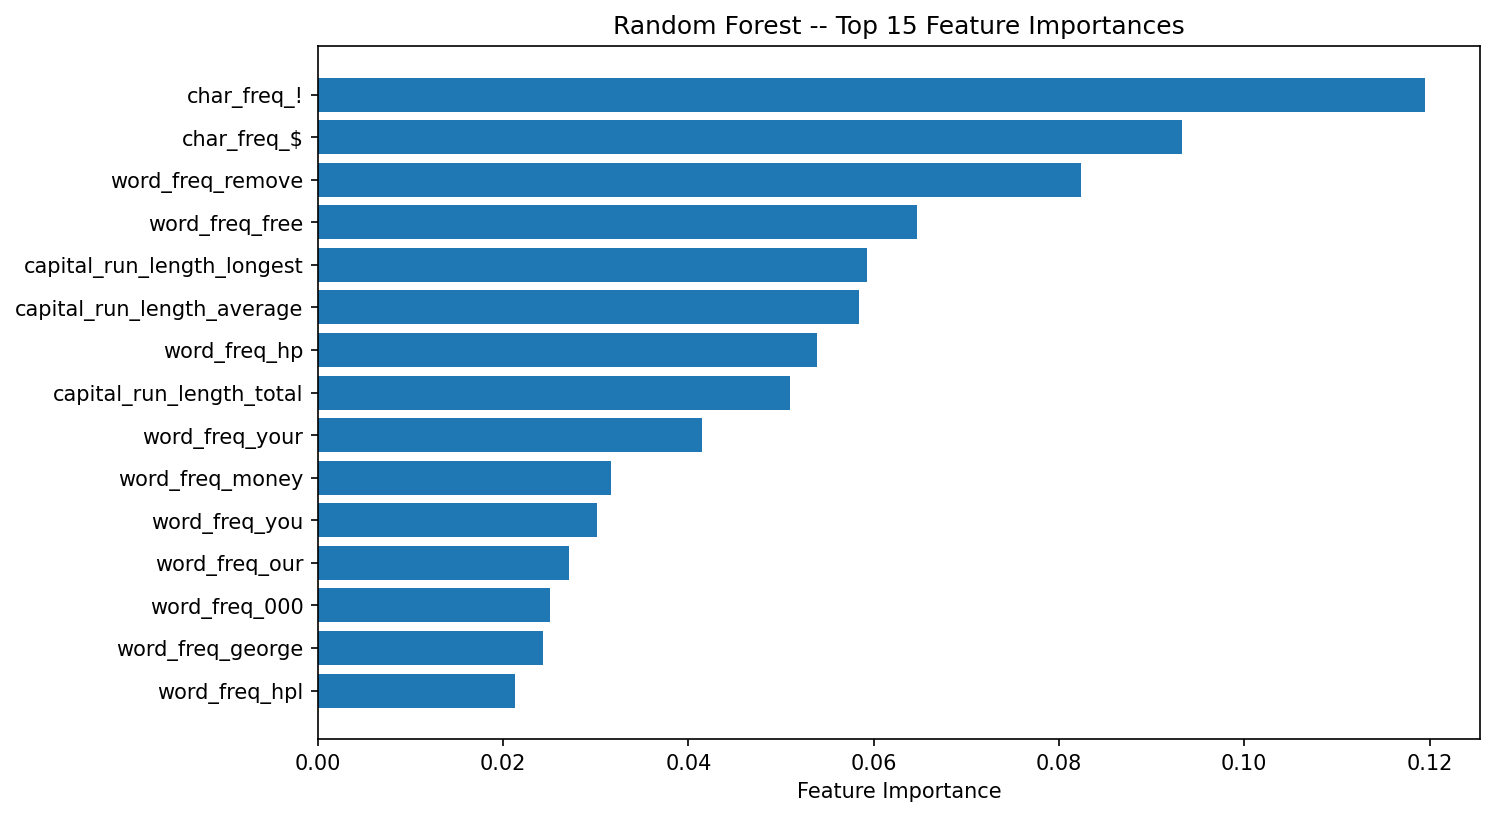
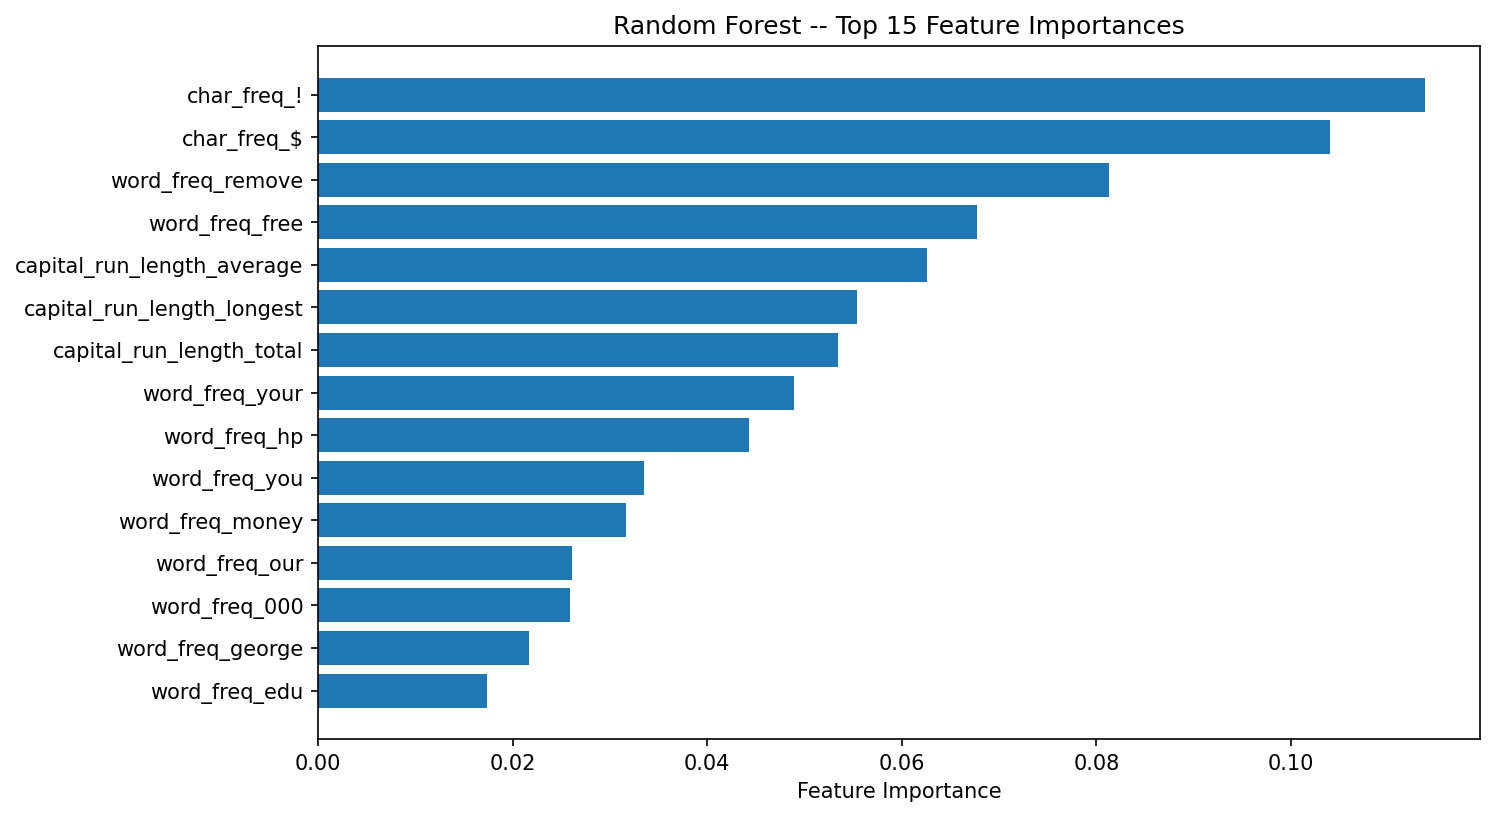
updated as per mentor and AI review

diff --git a/assignments_03/warmup_03.py b/assignments_03/warmup_03.py
@@ -8,6 +8,7 @@ from sklearn.decomposition import PCA
 from sklearn.neighbors import KNeighborsClassifier
 from sklearn.tree import DecisionTreeClassifier
 from sklearn.linear_model import LogisticRegression
+from sklearn.multiclass import OneVsRestClassifier
 from sklearn.metrics import (
     accuracy_score,
     classification_report,
@@ -106,6 +107,21 @@ print(f"Fold Scores: {cv_scores}")
 print(f"Mean: {cv_scores.mean():.4f}")
 print(f"Std:  {cv_scores.std():.4f}")
 
+# Comment: 5-fold cross-validation is MORE TRUSTWORTHY than a single train/test split.
+# Here's why:
+# 1. Multiple evaluations: CV uses 5 different train/test splits, not just one. This
+#    provides multiple independent estimates of model performance.
+# 2. Less variance: A single train/test split's score can be misleading due to random
+#    variation in which samples end up in train vs test. CV averages over these variations.
+# 3. Better generalization estimate: The mean CV score gives a more robust estimate of
+#    how the model will perform on unseen data.
+# 4. Stability insight: The standard deviation shows how sensitive the model is to
+#    different data splits. Lower std means more stable/reliable performance.
+# 5. Better data usage: In a single split, we "waste" data (only training on 80%). CV
+#    trains on ~80% in each fold, but uses all data for evaluation.
+# Single train/test split can be heavily influenced by luck—which samples randomly ended
+# up in each set. CV smooths out this randomness.
+
 # KNN Question 4:
 print("\n")
 print("-" * 100)
@@ -181,12 +197,11 @@ print("Logistic Regression Question 1")
 print("-" * 100)
 
 for C_val in [0.01, 1.0, 100]:
-    lr = LogisticRegression(C=C_val, max_iter=1000, solver='lbfgs')
-    # ValueError: The 'liblinear' solver does not support multiclass classification (n_classes >= 3).
-    # Either use another solver or wrap the estimator in a OneVsRestClassifier to keep applying a one-versus-rest scheme.
-
-    # So changedc'liblinear' to 'lbfgs'
-
+    # Use OneVsRestClassifier to wrap LogisticRegression with solver='liblinear'
+    # liblinear only supports binary classification, so OneVsRestClassifier enables
+    # multiclass classification by training one binary classifier per class.
+    lr = OneVsRestClassifier(LogisticRegression(
+        C=C_val, max_iter=1000, solver='liblinear'))
     lr.fit(X_train_scaled, y_train)
     coef_sum = np.abs(lr.coef_).sum()
     print(f"C = {C_val:6.2f}  Total - COEF = {coef_sum:.4f}")
@@ -245,6 +260,19 @@ ax.set_title("PCA 2D Projection")
 fig.savefig("outputs/pca_2d_projection.png")
 
 plt.close(fig)
+
+# Comment: YES, same-digit images DO tend to cluster together in this 2D space.
+# Each digit (color) forms its own region or neighborhood, showing that images of the same
+# digit share similar underlying patterns captured by PC1 and PC2. This makes sense because:
+# 1. Digits of the same value have consistent structural features (e.g., all 0s are circles,
+#    all 8s have two loops, all 7s have a horizontal bar at top).
+# 2. PC1 and PC2 capture the largest sources of variance in the pixel data, and these often
+#    correspond to structural differences between digit types.
+# 3. Some overlap occurs between similar-looking digits (e.g., 0 and 8, or 1 and 7),
+#    which makes sense visually.
+# This clustering demonstrates that PCA successfully captures meaningful structure in the
+# digit images and that handwritten digits are indeed separable in the space of principal
+# components -- which is why machine learning models can classify them effectively.
 
 # PCA Question 3:
 print("\n")

diff --git a/assignments_03/project_03.py b/assignments_03/project_03.py
@@ -155,7 +155,7 @@ X = df.drop(columns=["spam_label"])
 y = df["spam_label"]
 
 X_train, X_test, y_train, y_test = train_test_split(
-    X, y, test_size=0.2, stratify=y, random_state=2)
+    X, y, test_size=0.2, stratify=y, random_state=42)
 
 print(f"X_train: {X_train.shape}")
 print(f"X_test: {X_test.shape}")